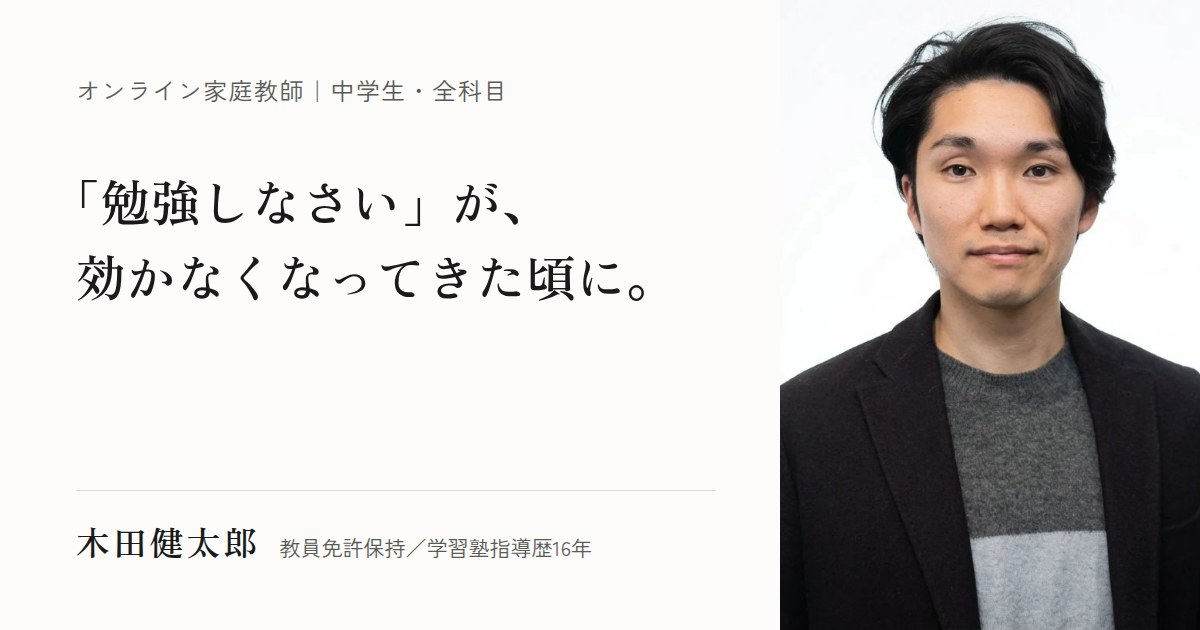
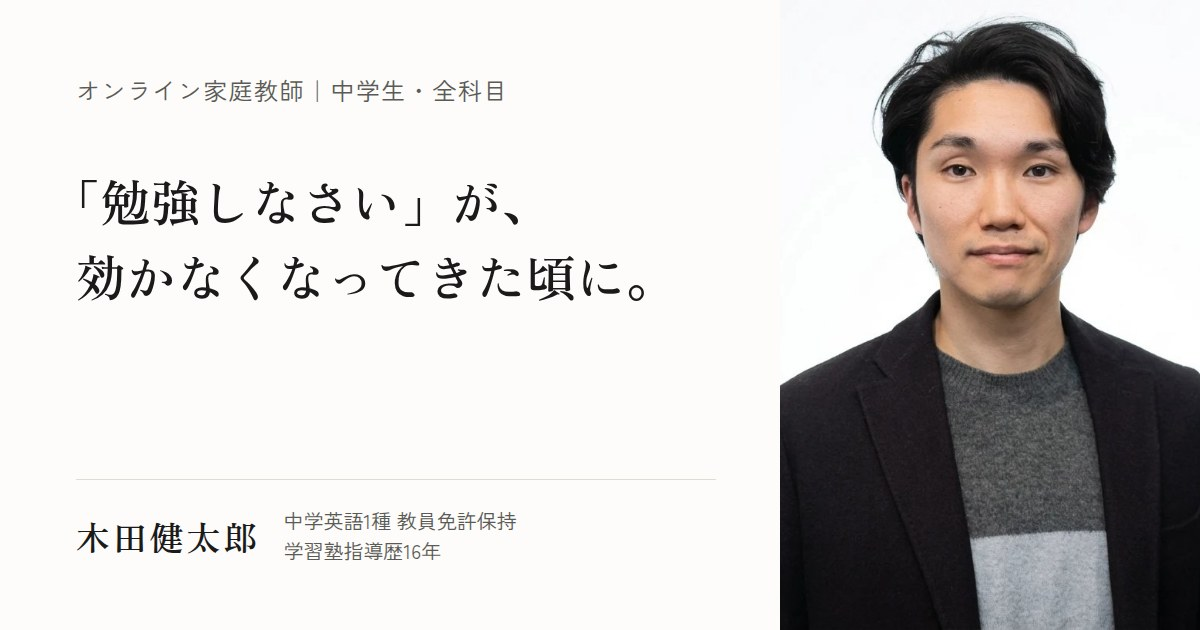
肩書きを「中学英語1種 教員免許保持」に変更（写真横・OGP 画像）
Claude-Session: https://claude.ai/code/session_01EQ2JvkXZiLccoT2LitTB7P

Changed region(s): [[0.0617, 0.8143, 0.4933, 0.9048], [0.0925, 0.754, 0.5858, 0.7841]]

diff --git a/index.html b/index.html
@@ -69,7 +69,7 @@
           <figcaption>
             <span class="role">講師</span>
             <span class="name">木田健太郎</span>
-            <span class="meta"><span class="nb">教員免許保持／</span><span class="nb">学習塾指導歴16年</span></span>
+            <span class="meta"><span class="nb">中学英語1種</span> <span class="nb">教員免許保持／</span><span class="nb">学習塾指導歴16年</span></span>
           </figcaption>
         </figure>
         <p class="cta-row">
